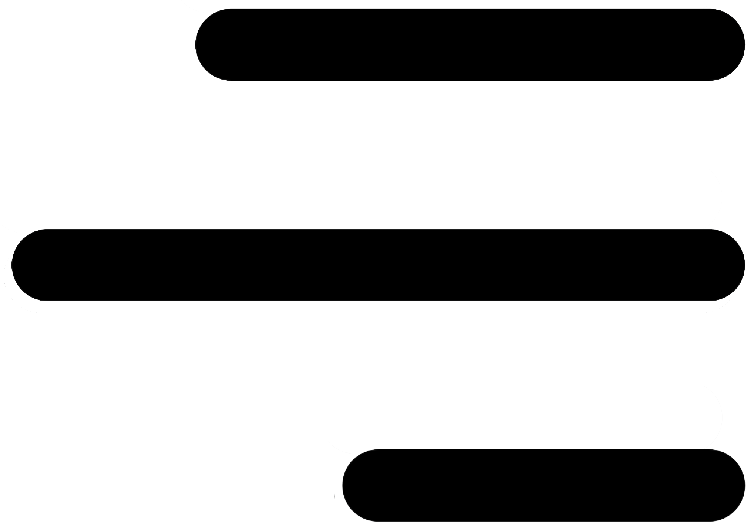
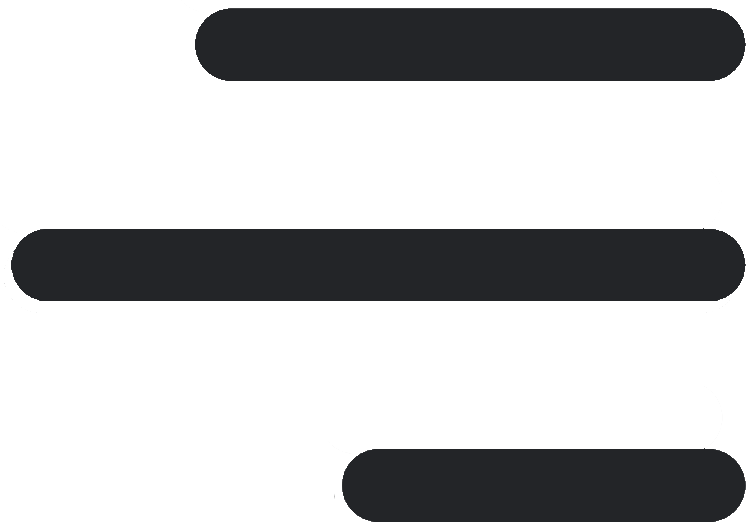
Modo nocturno Complete el modo nocturno

Changed region(s): [[0.0, 0.4234, 1.0, 0.5747], [0.2434, 0.0, 1.0, 0.1512], [0.4259, 0.8469, 1.0, 0.9981]]

diff --git a/index.html b/index.html
@@ -28,9 +28,9 @@
             </div>
 
             <div class="header__enlace">
-                <a class="header__enlace-a" href="#about"><span class="header__enlace-a">ACERCA</span></a>
-                <a class="header__enlace-a" href="#project"><span class="header__enlace-a">PROYECTOS</span></a>
-                <a class="header__enlace-a" href="#contact"><span class="header__enlace-a">CONTACTO</span></a>
+                <a class="header__enlace-a" href="#about" data-dark><span class="header__enlace-a">ACERCA</span></a>
+                <a class="header__enlace-a" href="#project" data-dark><span class="header__enlace-a">PROYECTOS</span></a>
+                <a class="header__enlace-a" href="#contact" data-dark><span class="header__enlace-a">CONTACTO</span></a>
             </div>
 
 
@@ -46,8 +46,8 @@
                 </div>
 
                 <div class="principal__biography-title">
-                    <h3 class="principal__biography-title-greetings">Saludo<span class="red">!</span></h3>
-                    <h1 class="principal__biography-title-name">Soy <span>Leonardo Portilla</span><span
+                    <h3 class="principal__biography-title-greetings" data-dark>Saludo<span class="red">!</span></h3>
+                    <h1 class="principal__biography-title-name" data-dark>Soy <span>Leonardo Portilla</span><span
                             class="red">,</span> un gusto</h1>
                     <p class="principal__biography-title-summary">Frontend Developer❗Soy un desarrollador autodidacta,
                         aunque por ahora no cuento con experiencia laboral como desarrollador frontend, así bien he
@@ -60,8 +60,8 @@
             </div>
 
             <a class="principal__slide" href="#about">
-                <h6 class="principal__slide-title">Desliza</h6>
-                <img class="principal__slide-image" src="./media/images/slide.png" alt="Icono de flecha hacia abajo">
+                <h6 class="principal__slide-title" data-dark>Desliza</h6>
+                <img class="principal__slide-image" src="./media/images/slide_light.png" alt="Icono de flecha hacia abajo">
             </a>
 
             <div class="principal__container">

diff --git a/javascripts/button.js b/javascripts/button.js
@@ -5,6 +5,9 @@ export function Button() {
     let Moon = document.querySelector(`.header__switchbutton-moon`)
     let Enlace = document.querySelector(`.header__enlace`)
     let Icono = document.querySelector(`.header__icon-image`)
+    let Flecha = document.querySelector(`.principal__slide-image`)
+    let Dark = document.querySelectorAll(`[data-dark]`)
+    let Body = document.querySelector(`body`)
 
     document.addEventListener(`click`, evento => {
         if (evento.target.matches(`.header__switchbutton-label`)) {
@@ -13,6 +16,10 @@ export function Button() {
             if (Buttoon.classList.contains(`active`)) {
                 Sun.setAttribute("src", `./media/images/sun_dark.png`)
                 Moon.setAttribute("src", `./media/images/moon_dark.png`)
+                Flecha.setAttribute("src", `./media/images/slide_dark.png`)
+
+                Body.style.backgroundColor = `#ffffff`
+                Dark.forEach(elemento => elemento.setAttribute(`id`,`dark`))
 
                 if (Enlace.classList.contains(`active`)) {
                     Icono.setAttribute(`src`, `./media/images/close_dark.png`)
@@ -22,6 +29,10 @@ export function Button() {
             } else {
                 Sun.setAttribute("src", `./media/images/sun_light.png`)
                 Moon.setAttribute("src", `./media/images/moon_light.png`)
+                Flecha.setAttribute("src", `./media/images/slide_light.png`)
+
+                Body.style.backgroundColor = `#232528`
+                Dark.forEach(elemento => elemento.setAttribute(`id`,``))
 
                 if (Enlace.classList.contains(`active`)) {
                     Icono.setAttribute(`src`, `./media/images/close_light.png`)

diff --git a/styles/style.scss b/styles/style.scss
@@ -16,12 +16,13 @@ $Colors: ("White": #ffffff,
     "Grey": #9c9c9c,
     "Alice Blue": #eaf6ff,
     "Black": #000000,
-    "Raisin Black": rgb(35, 37, 40),
+    "Raisin Black": #232528,
     "Orange": #ffa400,
     "Grey Orange": #e07500,
     "Dark Orange": #a44700,
-    "Royal Blue": rgb(42, 42, 114),
-    "Red": #c92d2d);
+    "Red": #c92d2d,
+    "Podria": #1EA896,
+);
 
 //Fuentes
 $Fonts: ("Secular Uno": Secular Uno,
@@ -367,10 +368,11 @@ body {
             height: 100vh;
             background-color: map-get($map: $Colors, $key: "Dark Orange");
         }
-
-
     }
+}
 
+#dark {
+    color: map-get($map: $Colors, $key: "Raisin Black");
 }
 
 @media (max-width: map-get($Resolution, "Laptop")) {

diff --git a/styles/style.css b/styles/style.css
@@ -38,7 +38,7 @@
 body {
   width: 100%;
   height: 100%;
-  background-color: rgb(35, 37, 40);
+  background-color: #232528;
 }
 body::-webkit-scrollbar {
   width: 5px;
@@ -150,7 +150,7 @@ body main .header__enlace a::after {
   border-radius: 0px 0px 300px 300px;
 }
 body main .header__enlace a:hover {
-  color: rgb(35, 37, 40);
+  color: #232528;
 }
 body main .header__enlace a:hover::after {
   top: 0;
@@ -284,6 +284,10 @@ body main .hability {
   width: 100%;
   height: 100vh;
   background-color: #a44700;
+}
+
+#dark {
+  color: #232528;
 }
 
 @media (max-width: 1024px) {
